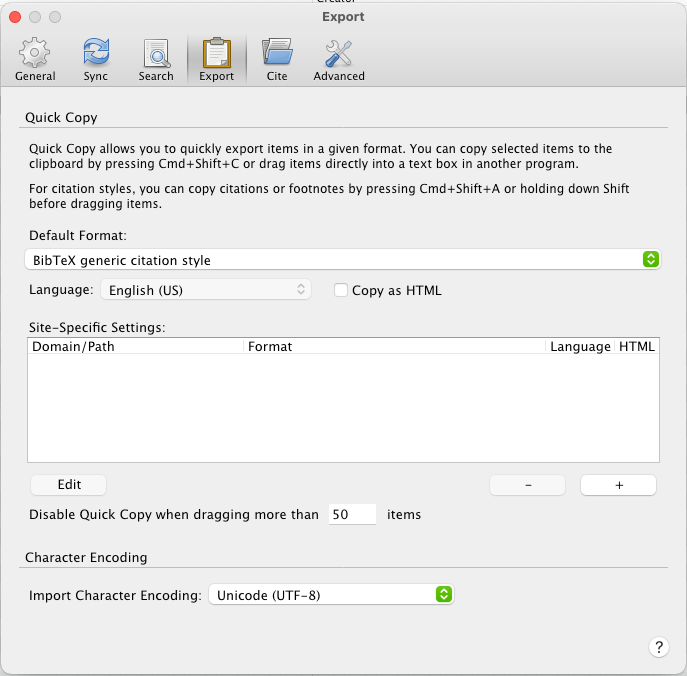
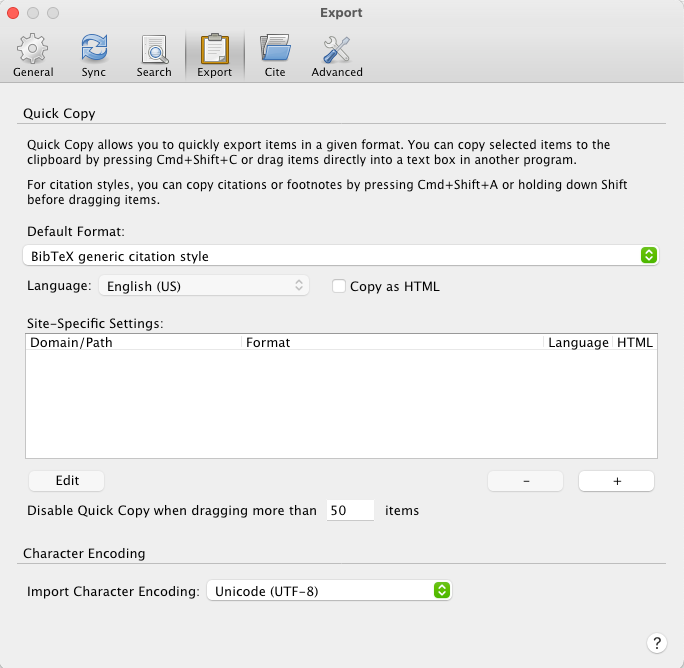
New post

diff --git a/_posts/2021-01-03-copying-bibtex-from-zotero.md b/_posts/2021-01-03-copying-bibtex-from-zotero.md
@@ -12,6 +12,6 @@ Zotoro gets the job done for me. It has got a lot of useful features. One such f
 clipboard so that it can be pasted into a document. This can be achieved using `⌘ + ⇧ + c` keyboard shortcut. 
 
 You can export the citation in a variety of formats. However, if you are using `LaTeX` to write a paper, you almost always
-need to paste a quote in a `BibTex` format into a `bib` file. There are a few ways of achieving this as mentioned in the [forum thread](https://forums.zotero.org/discussion/14300/copy-in-bibtex-format-how/). I found that the easiest way is to download and install the `BibTex generic citation` style from the [Zotero style repository](http://www.zotero.org/styles). After installing, set the default export format to `BibTex generic citation style` as shown below.
+need to paste a quote in a `BibTex` format into a `bib` file. There are a few ways of achieving this as mentioned in the [forum thread](https://forums.zotero.org/discussion/14300/copy-in-bibtex-format-how/). I found that the easiest way is to download and install the `BibTex generic citation` style from the [Zotero style repository](https://www.zotero.org/styles?q=bibtex). After installing, set the default export format to `BibTex generic citation style` as shown below.
 
-![zotero-export-bibtex](../files/zotero-export-bibtex.png)
+<img src="../files/zotero-export-bibtex.png" width="400">
